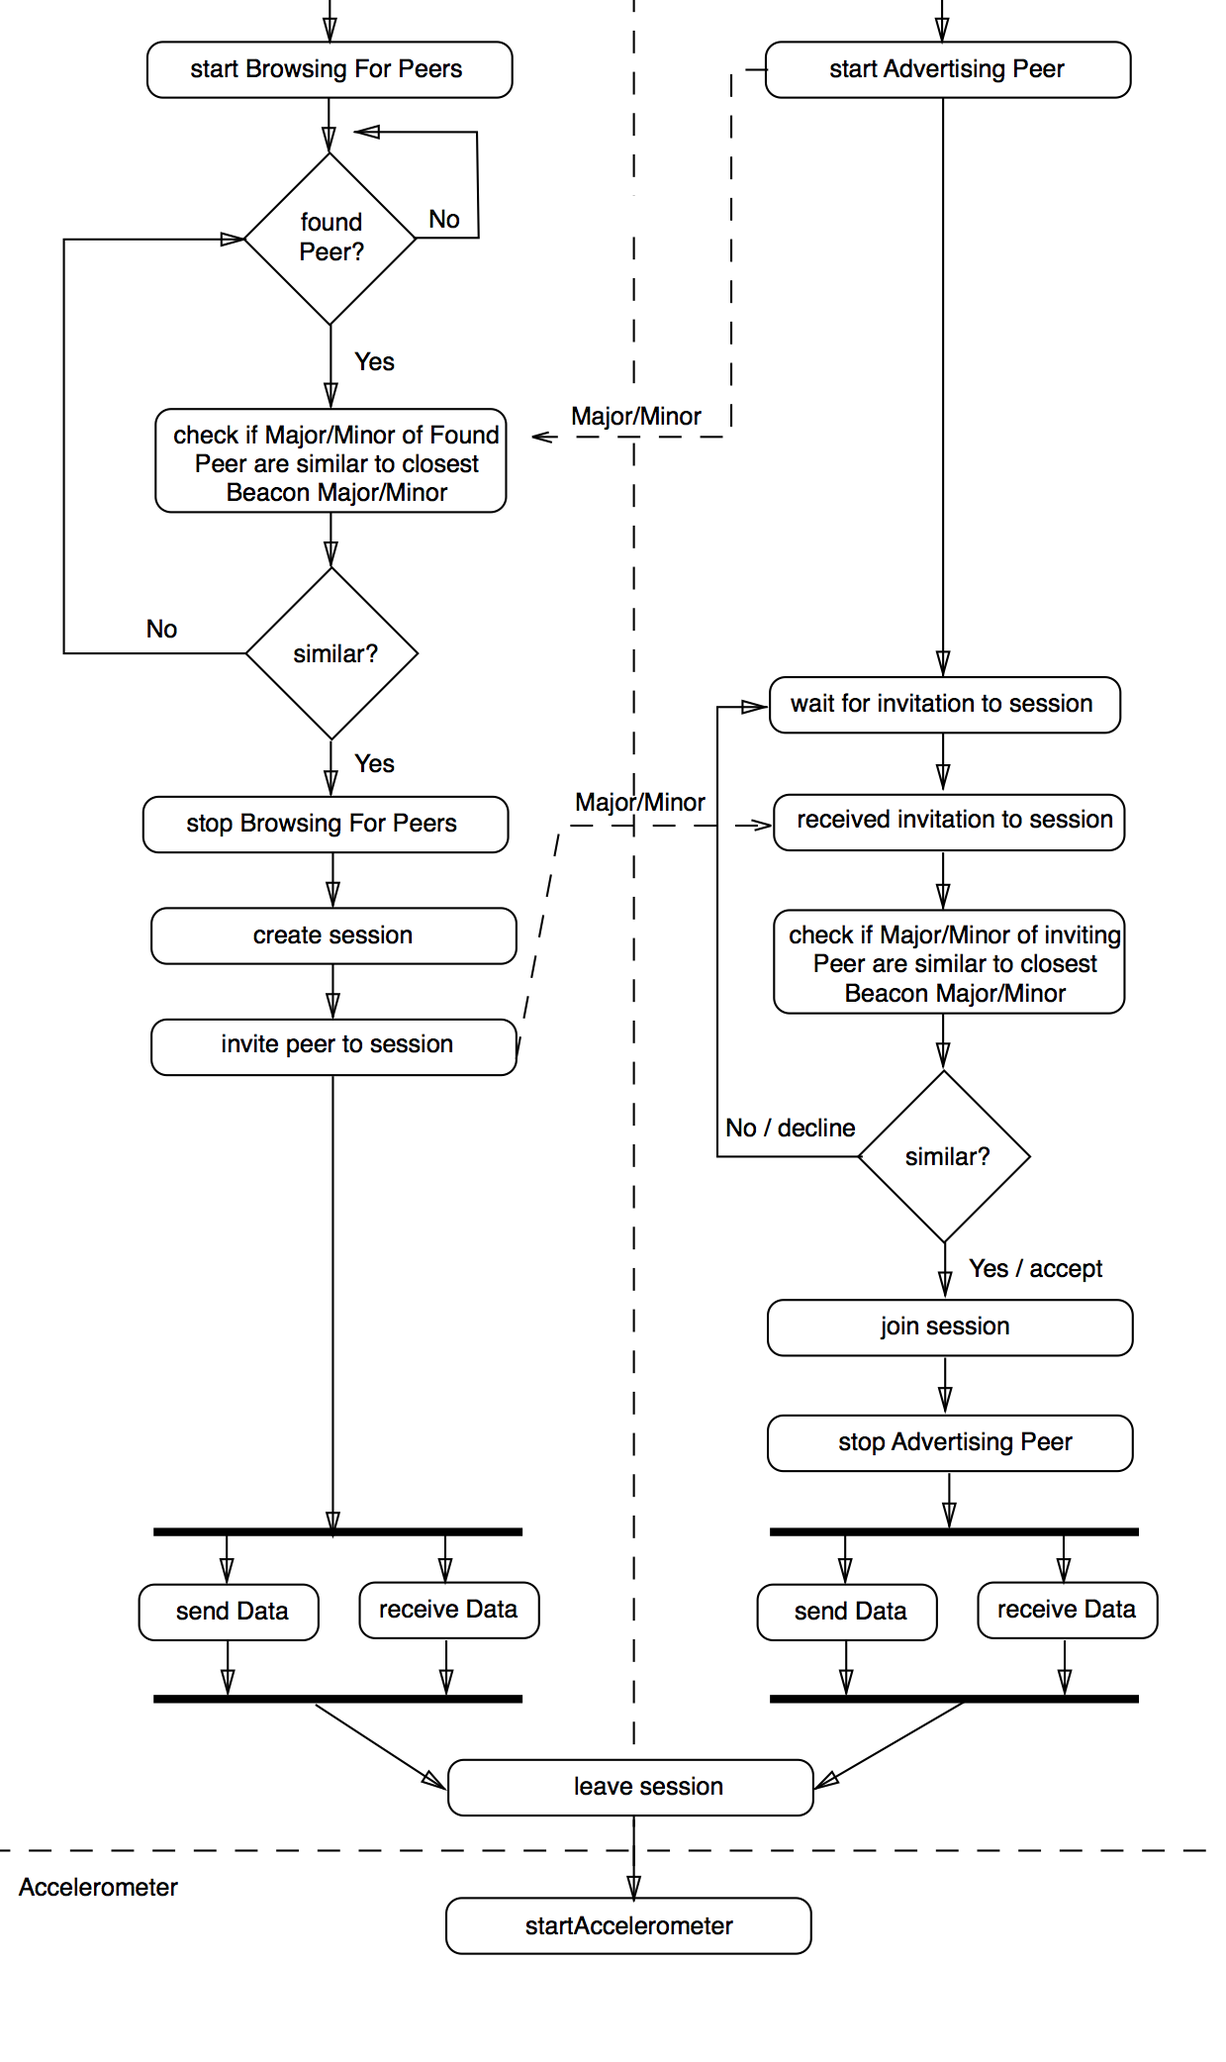
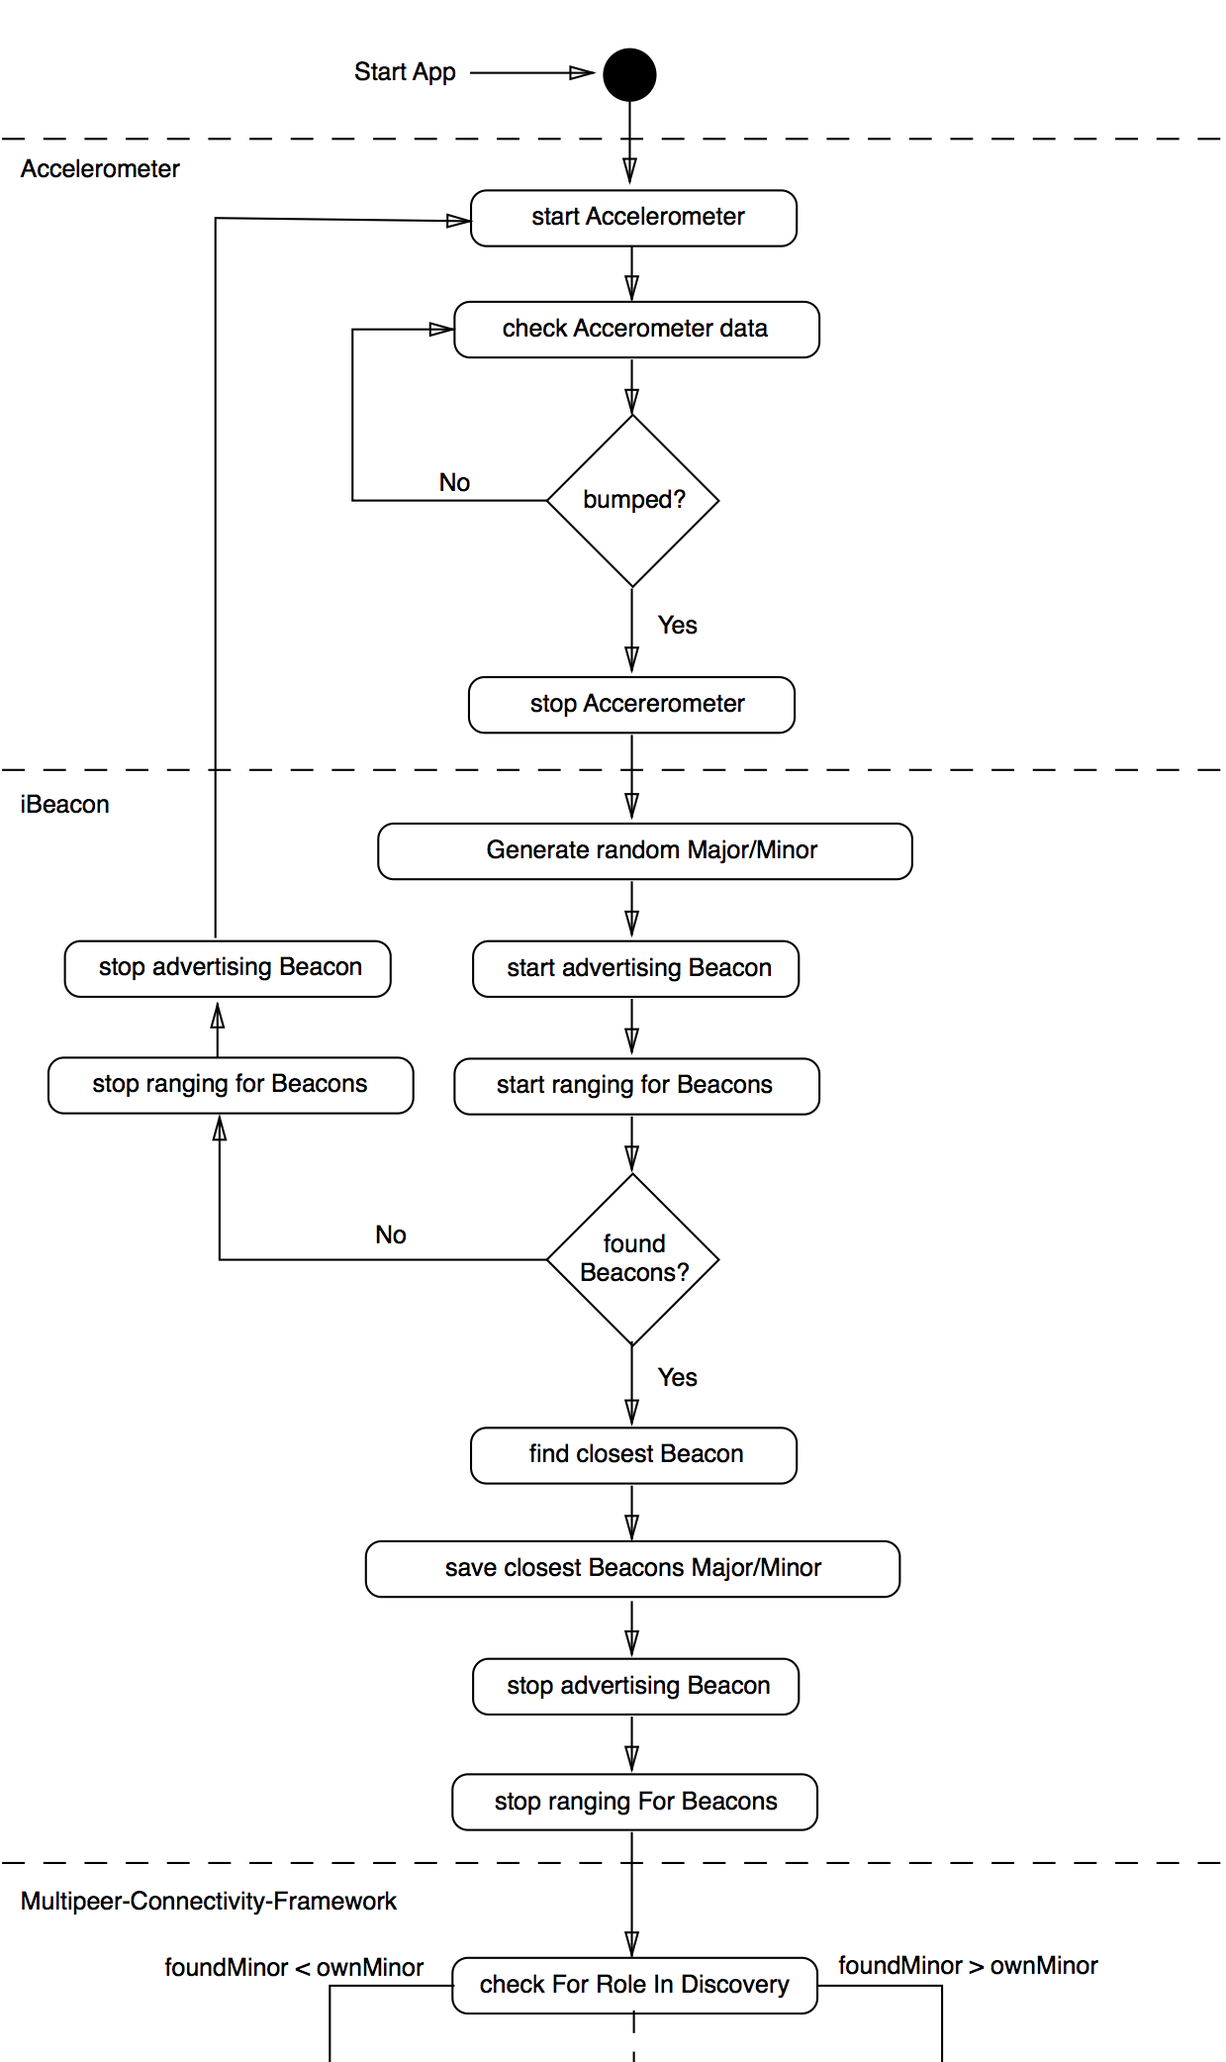
modified patterns swipe and bump

diff --git a/patterns/swipe_to_give.tex b/patterns/swipe_to_give.tex
@@ -8,7 +8,7 @@
 
 \newcommand{\desc}{Ein Datenobjekt auf einem Sender-Gerät soll auch auf einem Empfänger-Gerät verfügbar sein.}
 
-\newcommand{\solution}{Der Benutzer hat ein Quellgerät in der Hand oder vor sich stehen. Durch eine Wischbewegung (Swipe) von unten nach oben, werden Daten auf ein zweites Gerät, das Zielgerät, übertragen. Die Übertragung hängt mit der Ausrichtung der Geräte zusammen.}
+\newcommand{\solution}{Der Benutzer hat ein Quellgerät in der Hand oder vor sich stehen. Durch eine Wischbewegung (Swipe) von unten nach oben, werden Daten auf ein zweites Gerät, das Zielgerät, übertragen.}
 
 \newcommand{\category}{give}
 %\newcommand{\category}{take}
@@ -20,19 +20,20 @@
 % WIE
 % -------------------------------
 
-\newcommand{\useraction}{Der Benutzer hält Gerät A (Sende-Gerät) in der Hand oder hat das Gerät vor sich stehen (z.B. in Form eines Tabletops).\\ 
-Der Benutzer führt einen Swipe mit einem Finger vom unteren zum oberen Bildschirmrand aus. Die Bewegung erfolgt in Richtung des Empfänger-Gerätes, welches die Daten empfängt. Der Swipe hat eine Länge, sowie eine Richtung. Dies ist zwingend erforderlich, um eine Datenübertragung anzuregen. 
-}
+\newcommand{\useraction}{Der Benutzer hält das Sender-Gerät in der Hand oder hat das Gerät vor sich stehen (z.B. in Form eines Tabletops).\\ 
+Der Benutzer führt einen Swipe mit einem Finger vom unteren zum oberen Bildschirmrand aus. Die Bewegung erfolgt in Richtung des Empfänger-Gerätes, welches die Daten empfängt. Der Swipe hat eine Länge, sowie eine Richtung. Dies ist zwingend erforderlich, um eine Datenübertragung auszulösen.}
 
-\newcommand{\reaction}{Ist der Datensatz erfolgreich versendet worden, so reagiert Gerät A mit einer visuellen Nachricht an den Benutzer. Er bekommt eine kleine Nachricht angezeigt, dass die Übertragung erfolgreich verlief. Bereits während des Swipes soll der Benutzer verdeutlicht bekommen, dass die ausgewählten Dateien übertragen werden. Hierfür verblassen die ausgewählten Dateien nach oben hin.\\
-Gerät B empfängt den Datensatz und zeigt diesen auf dem Bildschirm an. Außerdem wird ein kurzer Vibrationsalarm ausgelöst. Auch hier könnten die Dateien vom oberen Rand hineingleiten.}
+\newcommand{\reaction}{Ist der Datensatz erfolgreich versendet worden, so reagiert das Sendergerät mit einer visuellen Nachricht an den Benutzer. Er bekommt eine kleine Nachricht angezeigt, dass die Übertragung erfolgreich verlief (z.B. durch ein Ausfaden/Verblassen des Bildes).\\
+Das Empfänger-Gerät empfängt den Datensatz und zeigt diesen auf dem Bildschirm an.\\
+Die Reaktion beim Sender ist eine Popup-Nachricht, welche signalisiert, dass die Dateien übertragen wurden. Des Weiteren wird die Liste der ausgewählten Bilder geleert.\\
+Die eigentliche Reaktion ist es die übertragenen Dateien anzuzeigen (visuelle Rückmeldung). Dies könnte bspw. durch Hineingleiten vom oberen Rand des Empfänger-Geräts sein, wie es auch beim Senden beschrieben wurde. Der Benutzer erhält durch diese gestalterische Lösung ein besseres Verständnis für den Vorgang. Das Gerät soll jedoch zusätzlich eine akustische Rückmeldung an den Benutzer geben, dass Daten übertragen wurden. In diesem Fall ist die akustische Rückmeldung ein Vibrationsalarm.}
 
 \newcommand{\reactionSuccessVisual}{}
 %\newcommand{\reactionSuccessAcustic}{}
 \newcommand{\reactionSuccessSensitive}{}
 
-%\newcommand{\reactionFailureConnection}{}
-\newcommand{\reactionFailureConnectionDesc}{...}
+\newcommand{\reactionFailureConnection}{}
+\newcommand{\reactionFailureConnectionDesc}{wird ein Fehlertext auf dem Sender-Gerät angezeigt.}
 
 %\newcommand{\reactionFailureNoDevice}{}
 \newcommand{\reactionFailureNoDeviceDesc}{...}
@@ -40,25 +41,25 @@ Gerät B empfängt den Datensatz und zeigt diesen auf dem Bildschirm an. Außerd
 %\newcommand{\reactionFailureCompatibility}{}
 \newcommand{\reactionFailureCompatibilityDesc}{...}
 
-\newcommand{\designnotes}{Es ist gefordert, entsprechend der Geräte zu berücksichtigen, mit wie viel Fingern die Swipe-Geste ausgeführt werden soll. In diesem Fall wird der Swipe mit einem Finger ausgeführt und findet in einer eigens dafür gestalteten App statt. Um die Interaktion, den Swipe, durchführen zu können, wird eine Verbindung zu einem Gerät benötigt. }
+\newcommand{\designnotes}{Entsprechend der Geräte ist es notwendig zu berücksichtigen, mit wie viel Fingern die Swipe-Geste ausgeführt werden soll. In diesem Fall wird der Swipe mit einem Finger ausgeführt und findet in einer eigens dafür gestalteten App statt. Um die Interaktion, den Swipe, durchführen zu können, wird eine Verbindung zu einem Gerät benötigt. }
 
 % -------------------------------
 % WANN
 % -------------------------------
 
-\newcommand{\validcontext}{Datenaustausch von Bildern, Videos, Dateien (z.B. PDFs), Social Network IDs}
+\newcommand{\validcontext}{Datenaustausch von Bildern, Videos, Dateien, Social Network IDs}
 
 %\newcommand{\simultaneously}{}
 \newcommand{\sequentially}{}
 
-%\newcommand{\online}{}
-%\newcommand{\offline}{}
+\newcommand{\online}{}
+\newcommand{\offline}{}
 
 \newcommand{\private}{}
 \newcommand{\semipublic}{}
-%\newcommand{\public}{}
+\newcommand{\public}{}
 \newcommand{\stationary}{}
-%\newcommand{\onthego}{}
+\newcommand{\onthego}{}
 
 \newcommand{\leanback}{}
 \newcommand{\leanforward}{}
@@ -69,8 +70,8 @@ Gerät B empfängt den Datensatz und zeigt diesen auf dem Bildschirm an. Außerd
 %\newcommand{\sidetoside}{}
 %\newcommand{\cornertocorner}{}
 
-%\newcommand{\smalltask}{}
-%\newcommand{\repeatedtask}{}
+\newcommand{\smalltask}{}
+\newcommand{\repeatedtask}{}
 %\newcommand{\locationbased}{}
 %\newcommand{\distraction}{}
 %\newcommand{\urgent}{} 
@@ -137,24 +138,23 @@ Chromecast: Technologie mit der Daten z.B. vom Smartphone auf den
 Fernseher übertragen werden.
 
 \item \cite{Marquardt:2012:GEF:2396636.2396642}
-
-\item Hoccer (TODO LITERATUR)
-\item Push2Send (TODO LITERATUR)
-\item FotoSwipe (TODO LITERATUR)
+\item \cite{Hoccer}
+\item \cite{Sokolov:2012}
+\item \cite{Fotoswipe}
 
 \end{enumerate}
 }
 
 \newcommand{\designprinciples}{}
 
-%\newcommand{\imageschemata}{}
-%\newcommand{\imageSchemaContainer}{}
-%\newcommand{\imageSchemaInOut}{}
+\newcommand{\imageschemata}{}
+\newcommand{\imageSchemaContainer}{}
+\newcommand{\imageSchemaInOut}{}
 %\newcommand{\imageSchemaPath}{}
-%\newcommand{\imageSchemaSourcePathGoal}{}
+\newcommand{\imageSchemaSourcePathGoal}{}
 %\newcommand{\imageSchemaUpDown}{}
 %\newcommand{\imageSchemaLeftRight}{}
-%\newcommand{\imageSchemaNearFar}{}
+\newcommand{\imageSchemaNearFar}{}
 %\newcommand{\imageSchemaPartWhole}{}
 
 \newcommand{\realworld}{}
@@ -173,14 +173,24 @@ Fernseher übertragen werden.
 %\newcommand{\technologyObjectIntimate}{}
 %\newcommand{\technologyObjectPersonal}{}
 %\newcommand{\technologyObjectSocial}{}
-%\newcommand{\technologyObjectPublic}{}
+\newcommand{\technologyObjectPublic}{}
 
-\newcommand{\technologyObjectDesc}{...}
+\newcommand{\technologyObjectDesc}{Aufgrund der Erhebung der technischen Vor- und Nachteile (TODO QUELLE HAHN BA), fiel die Auswahl der Übertragungstechnologie für den Prototyp auf WiFi Direct. Die hohe Reichweite und Übertragungsgeschwindigkeit ist für diese Entscheidung ausschlaggebend. Eine manuelle Auswahl des Zielgeräts ist für den Prototyp von Nachteil.\\
+
+Durch die Methode discoverPeers() wird der Applikation mitgeteilt, dass nach
+verfügbaren Geräten gesucht werden soll. Sobald Geräte gefunden werden,
+wird der peerListListener aufgerufen. Dieser muss zuvor überschrieben werden,
+damit auf die Liste zugegriffen werden kann. Sobald
+neue Geräte gefunden werden, wird die alte Liste geleert und mit den Neuen
+gefüllt. Daraufhin wird die GUI geupdated.}
 
 %\newcommand{\technologyCommunicationServer}{}
-%\newcommand{\technologyCommunicationAdhoc}{}
+\newcommand{\technologyCommunicationAdhoc}{}
 
-\newcommand{\technologyCommunicationDesc}{...}
+\newcommand{\technologyCommunicationDesc}{
+Um Dateien in Android auswählen zu können, wird das Storage Access Framework
+(SAF) benötigt. Hierdurch können Nutzer ihre Bibliothek durchsuchen und
+Dokumente, Bilder, sowie andere Dateien öffnen.}
 
 %\newcommand{\technologyOrientationAccelerometer}{}
 %\newcommand{\technologyOrientationGPS}{}
@@ -190,20 +200,41 @@ Fernseher übertragen werden.
 %\newcommand{\technologyOrientationBeacons}{}
 %\newcommand{\technologyOrientationOther}{}
 
-\newcommand{\technologyOrientationDesc}{...}
+\newcommand{\technologyOrientationDesc}{In Android werden Gesten vom Betriebssystem erkannt und können weiter verarbeitet
+werden. Beispielsweise wird erkannt, wann und wo ein Finger das Display
+berührt (Action Down). Das Gleiche gilt auch für das wieder Anheben des
+Fingers (Action Up). Durch diese beiden Gesten kann ein Swipe erkannt werden.
+Für eine Implementierung werden zwei Variablen benötigt.
+Variable y1 steht für das Berühren des Displays, Variable y2 für das
+wieder loslassen. Nun können die beiden Punkte und deren Entfernung gemessen
+werden.\\
+Ein Swipe hat eine Richtung, sowie eine Länge. In diesem Fall muss der Swipe
+von unten nach oben erfolgen und die Länge muss mindestens 450 Pixel lang
+sein.}
 
-\newcommand{\prototype}{...}
+\newcommand{\prototype}{Um die Interaktion umzusetzen, müssen zwei Apps entwickelt werden, eine für das Start- und eine für das Zielgerät. Die App ist notwendig, damit das Swipen zur Datenübertragung genutzt werden kann. Außerdem müssen die Auswahl der Dateien und das Herstellen der Verbindung von Start- zu Zielgerät speziell für diese Interaktion angepasst werden.\\
+Bei der Verbindung der beiden Endgeräte muss ein Informationskanal geöffnet werden, damit Dateien übertragen werden können. Des Weiteren muss mindestens ein Gerät erkennen, welche Geräte zur Interaktion zu Verfügung stehen.\\
+Eine Applikation wurde auf der Android-Plattform implementiert mit der sich Endgeräte über WiFi Direct identifizieren und über lokale WLAN Netzwerke oder AD-Hoc Netzwerke Bilddateien austauschen können.}
 
 
 % -------------------------------
 % SONSTIGES
 % -------------------------------
 
-\newcommand{\authors}{Alexander Hahn, Valentina Burjan // Hochschule Mannheim}
-\newcommand{\literature}{ TODO }
+\newcommand{\authors}{
+Alexander Hahn, Hochschule Mannheim  \\
+Valentina Burjan // Hochschule Mannheim}
+\newcommand{\literature}{
+\begin{enumerate}
+\item \url{https://github.com/informatik-mannheim/thesis-swipe-to-give/tree/master/sources/Code}\\
+Java-Code zu den Demonstrator Applikationen von swipe-to-give
+
+\item \url{https://github.com/informatik-mannheim/thesis-swipe-to-give/blob/master/sources/Video/SwipeToGive_Demo.mp4}\\
+Demo-Video zu swipe-to-give
+\end{enumerate}}
 \newcommand{\figures}{---}
-\newcommand{\versionhistory}{...}
-\newcommand{\dateofcreation}{...}
+\newcommand{\versionhistory}{---}
+\newcommand{\dateofcreation}{17.09.2015}
 \newcommand{\comments}{---}
 \newcommand{\questions}{---}
 

diff --git a/patterns/bump_to_give.tex b/patterns/bump_to_give.tex
@@ -20,11 +20,12 @@
 % WIE
 % -------------------------------
 
-\newcommand{\useraction}{Zwei Benutzer halten jeweils ein Gerät fest in der Hand und lassen die Geräte an der Seitenkante zusammenstoßen/bumpen. }
+\newcommand{\useraction}{Zwei Benutzer halten jeweils ein Gerät fest in der Hand und lassen die Geräte an der Stirnseite/Seitenkante/Ecke zusammenstoßen/bumpen. }
 
-\newcommand{\reaction}{Die Geräte geben nach dem Zusammenstoß eine visuelle oder akustische Rückmeldung an die Benutzer.\\
-Es wird signalisiert, dass ein Bump vom Endgerät festgestellt wurde z.B. über Vibration. \\
-Auf dem Quellgerät angezeigte Dokumente werden auf das Zielgerät übertragen und dort angezeigt.}
+\newcommand{\reaction}{Die hauptsächliche Reaktion des Systems ist es, die Daten des Quellgeräts auf das Zielgerät zu übertragen und dort anzuzeigen. Die Geräte
+sollten aber auch eine visuelle oder akustische Rückmeldung an die Benutzer
+geben, um zu signalisieren, dass ein Bump von den Endgeräten festgestellt wurde,
+z.B. über Vibration und mit welchem Gerät/Person Daten ausgetauscht werden.}
 
 \newcommand{\reactionSuccessVisual}{}
 %\newcommand{\reactionSuccessAcustic}{}
@@ -153,12 +154,14 @@ Screens               &            &            &        &          &         \\
 %\newcommand{\technologyObjectSocial}{}
 %\newcommand{\technologyObjectPublic}{}
 
-\newcommand{\technologyObjectDesc}{-}
+\newcommand{\technologyObjectDesc}{Über die Major- und Minor-Werte kann mit iBeacon jedem Endgerät eine einzigartige ID zugeordnet werden mit der Endgeräte identifiziert werden können. Um diese ID zwischen Bump-Partnern auszutauschen, wird auf beiden Geräten iBeacon zum Zeitpunk des Bumps für kurze Zeit aktiviert. Gerade lange genug, damit die Endgeräte alle aktiven Beacons in ihrem Umfeld sehen können. Dadurch besitzt jedes Gerät eine Liste an Beacons die zu einen bestimmten Zeitpunkt an einem Bump, in ihrer Empfangsreichweite, beteiligt waren. Können die Endgeräte jeweils nur ein anderes Beacon sehen, haben Sie ihren Bump-Partner identifiziert. Ist mehr als ein Beacon sichtbar, fanden mehrere Bumps zeitgleich statt. In diesen Fällen können die Partner, über die Entfernung der Geräte zueinander, ermittelt werden. Bei den Geräten mit dem geringsten Abstand handelt es sich um die Bump-Partner. Die Erkennung der Partnergeräte über die Entfernung macht es erforderlich, dass
+zeitgleiche Bumps mindestens einige Zentimeter voneinander entfernt stattfinden. Dies stellt sicher, dass eine falsche Zuordnung durch ungenaue Abstandsmessungen vermieden wird.}
 
-\newcommand{\technologyCommunicationServer}{}
+%\newcommand{\technologyCommunicationServer}{}
 \newcommand{\technologyCommunicationAdhoc}{}
 
-\newcommand{\technologyCommunicationDesc}{-}
+\newcommand{\technologyCommunicationDesc}{Wird auf einem Gerät ein Bump registriert, ist der erste Schritt die Generierung von Zufallszahlen für den Major- und Minor-Wert von iBeacon. Diese Zahlen bilden eine eindeutige ID, mit der sich jedes Gerät im Netzwerk identifizieren kann. Anschließend wird iBeacon aktiviert, die Geräte können sich gegenseitig sehen, GeräteIDs lesen und die Distanz zu allen sichtbaren Beacons erfassen. Ist mehr als ein Beacon sichtbar, wird jenes ermittelt, welches die geringste Distanz zum suchenden Gerät aufweist. Die GeräteID dieses Geräts wird lokal gespeichert und iBeacon wird deaktiviert. Anschließend startet die DiscoveryPhase des Multipeer-
+Connectivity-Frameworks.}
 
 \newcommand{\technologyOrientationAccelerometer}{}
 %\newcommand{\technologyOrientationGPS}{}
@@ -170,23 +173,23 @@ Screens               &            &            &        &          &         \\
 
 \newcommand{\technologyOrientationDesc}{-}
 
-\newcommand{\prototype}{Generell können zwei Lösungsansätze unterschieden werden:\\
-\begin{itemize}
-\item Kommunikation über ein Ad-Hoc Netzwerk, das zwischen den beteiligten Geräten gebildet wird.\\
-Vorraussetzungen für Endgeräte:
-\begin{itemize}
-\item Accelerometer
-\item Ad-Hoc-Netzwerktechnologie - Bluetooth/Wi-Fi
-\item GPS oder Beacon
-\end{itemize}
-\item Kommunikation über einen Server zu dem sich beteiligte Geräte verbinden.\\
-Vorraussetzungen für Endgeräte:
-\begin{itemize}
-\item Accelerometer
-\item Wi-Fi oder Mobilfunk
-\item GPS oder Beacon
-\end{itemize}
-\end{itemize}
+\newcommand{\prototype}{
+Die Bump-Interaktion besteht aus drei Teilsystemen:
+Eines dieser Systeme muss erkennen, wenn Endgeräte angestoßen werden. Ein weiteres
+System muss Endgeräte identifizieren können, damit die Daten zwischen den
+richtigen Geräten ausgetauscht werden. Außerdem wird ein System benötigt, über
+das ein Kommunikationskanal zwischen den Geräten hergestellt wird, über den Daten
+ausgetauscht werden können.\\
+
+Es wurden drei iOS Frameworks genutzt für die Umsetzung von Bump:
+\begin{enumerate}
+\item Core Motion Framework: bietet Applikationen Zugang zu Sensordaten (Beschleunigungssensor) die durch die Gerätehardware erfasst werden
+\item Core Location Framework: bietet Zugriff auf die Technologien GPS und iBeacon, mit denen standortbasierte Dienste realisiert werden können.
+\item Multipeer Connectivity Framework: bietet Kommunikation für iOS und MacOS Geräte über WLAN oder Bluetooth zu kommunizieren.
+\end{enumerate}
+
+Wichtig ist, dass sich die Geräte gegenseitig anstoßen, um den Verbindungsaufbau und den Datenaustausch zwischen den Geräten auszulösen. Der dabei auftretende Zusammenprall der Geräte aneinander erzeugt Kräfte, die durch Beschleunigungssensoren gemessen werden können. Auf
+dieser Grundlage wurde ein Algorithmus entwickelt, der die durch den Aufprall erzeugten Daten des Accelerometers auswertet, um zu erkennen, wann ein Bump stattgefunden hat.\\
 }
 
 
@@ -194,17 +197,22 @@ Vorraussetzungen für Endgeräte:
 % SONSTIGES
 % -------------------------------
 
-\newcommand{\authors}{Benjamin Grab, Hochschule Mannheim}
+\newcommand{\authors}{
+Benjamin Grab, Hochschule Mannheim\\
+Valentina Burjan, Hochschule Mannheim}
 \newcommand{\literature}{
 \begin{enumerate}
 \item Bump. [Online]. \url{http://bu.mp/}
 \item BumpTechnologies. Youtube.com. [Online]. \url{https://www.youtube.com/user/BumpTechnologies}
 \item Ken Hinckley. 2003. Synchronous gestures for multiple persons and computers. In Proceedings of the 16th annual ACM symposium on User interface software and technology (UIST '03). ACM, New York, NY, USA, 149-158. DOI=10.1145/964696.964713 
+\item \url{https://github.com/informatik-mannheim/thesis-bump-to-transfer/tree/master/sources/
+Bumper}\\
+Swift-Code zu der Demonstrator Applikationen von Bump
 \end{enumerate}
 }
 \newcommand{\figures}{...}
 \newcommand{\versionhistory}{...}
-\newcommand{\dateofcreation}{...}
+\newcommand{\dateofcreation}{17. September 2015}
 \newcommand{\comments}{...}
 \newcommand{\questions}{...}
 

diff --git a/patterns/template.tex b/patterns/template.tex
@@ -154,7 +154,7 @@
 
 \section*{Technisches}
 
-\subsection*{Technologien zur Objekterkennung}
+\subsection*{Technologien zur Geräteerkennung}
 
 
 \begin{minipage}{0.3\textwidth}
@@ -167,8 +167,8 @@
 z.B. NFC, Tags, RFID, Bluetooth \\
 z.B. Bluetooth \\
 z.B. (Tiefen-) Kamera \\
-z.B. GPS
-\end{minipage}
+z.B. GPS, WiFi Direct
+\end{minipage}\\
 
 \technologyObjectDesc
 

diff --git a/patterns/header.tex b/patterns/header.tex
@@ -46,4 +46,6 @@
 
 \newcommand{\prototypeimg}{\jobname_prototype.png}
 
+%----------------------------
+
 \bibliographystyle{plain}
